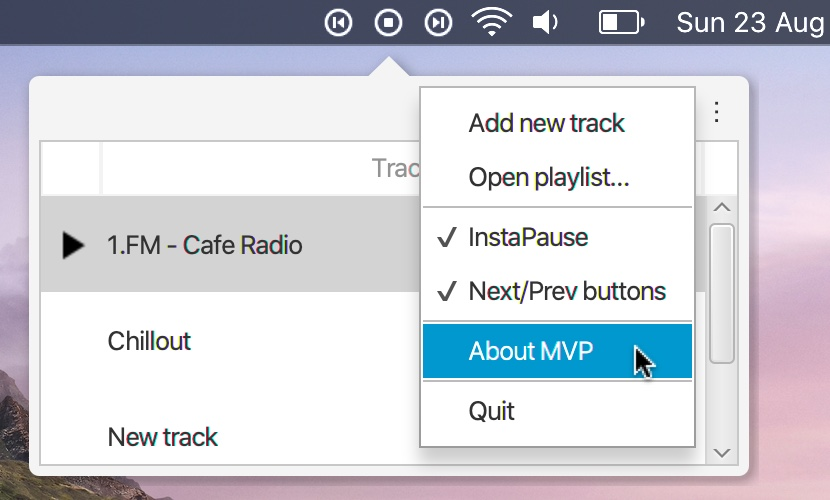
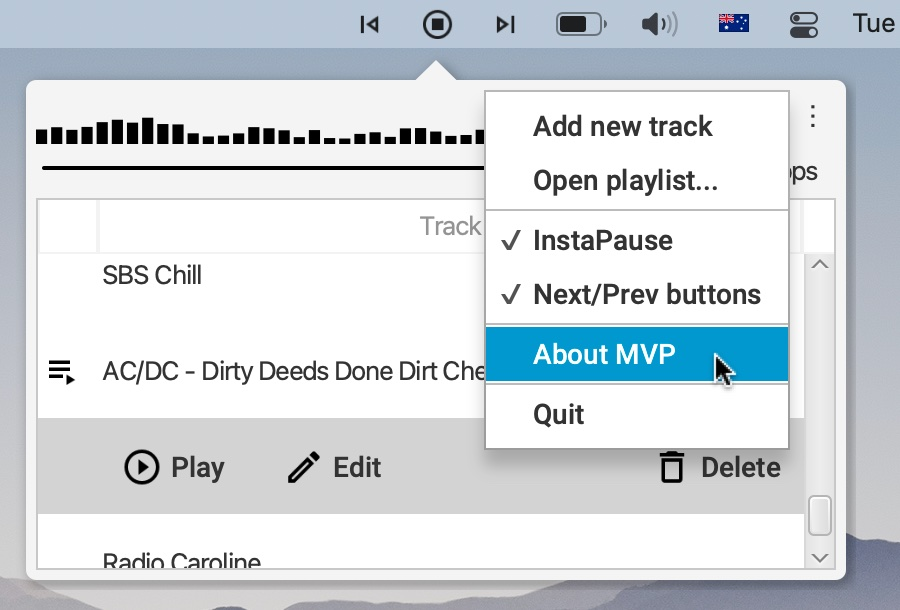
Update README and screenshot

diff --git a/README.md b/README.md
@@ -5,24 +5,33 @@ Lives in the taskbar and plays streaming audio.
 
 <img src="mvp.jpg" width="600">
 
+
 Features
 --------
-* Supports MP3, FLAC, Opus and HLS streams.
+* Supports MP3, AAC, FLAC, Opus and HLS streams.
     * Powered by [BASS audio library](http://www.un4seen.com/bass.html).
-* InstaPause - player stops playback when the option is enabled and default output device changes
-or continues using new default output device.
-* Playlist is persisted between player restarts.
+* InstaPause - if the option is enabled, player stops playback when default output device changes or continues
+using new default output device otherwise.
+* Playlist and settings are persisted between player restarts.
+
 
 Controls
 --------
-* Show or hide playlist - do right mouse click on the player's icon(s).
-* Add a new track or open an .m3u playlist - use the main menu.
-* Delete a track - hover mouse over some track in the playlist and click the Trash can icon.
-* Play a track - highlight a track in the playlist and do left mouse click on the player's icon.
+* Show or Hide playlist - do right mouse click on the player's icon(s).
+* Add a new track or Open an .m3u playlist - use the main menu.
+* Edit a track or Delete a track - select a track in the playlist and click corresponding icon.
+* Play a track - select a track in the playlist and do left mouse click on the player's icon or click the Play icon.
 * Stop player - do left mouse click on the player's icon.
-* Play next or previous tracks - while some track is being played, do left mouse click on the player's icons.
-    * By default, Next and Previous buttons are hidden and can be made visible via the main menu.
-* _Play/Pause_, _Next_ and _Previous_ media keys are supported too.
-    * On macOS, to prevent iTunes / Music app from launching when _Play/Pause_ media key is pressed,
+* Play next or previous tracks - while a track is playing, do left mouse click on the player's icons.
+    * By default, _Next_ and _Previous_ buttons are hidden and can be made visible via the main menu.
+* _Play_/_Pause_, _Next_ and _Previous_ media keys are supported.
+    * On macOS, to prevent iTunes / Music app from launching when _Play_/_Pause_ media key is pressed,
     hold any of _Command_, _Control_ or _Option_ keys.
-* Enable or disable InstaPause - use the main menu.
+* Enable or Disable InstaPause - use the main menu.
+
+
+Build and run
+-------------
+```shell
+mvn javafx:run
+```
